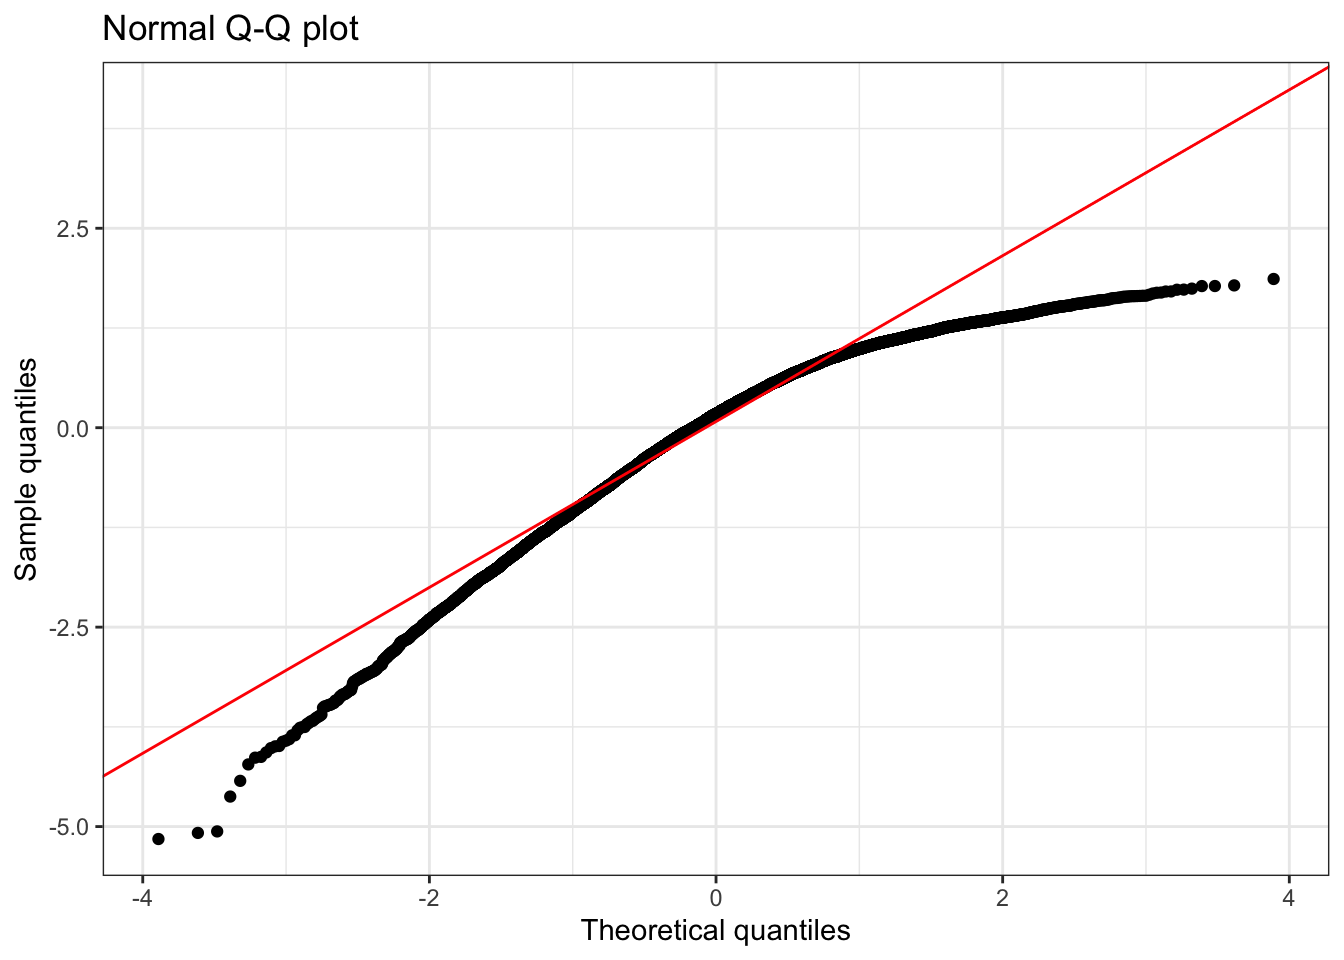
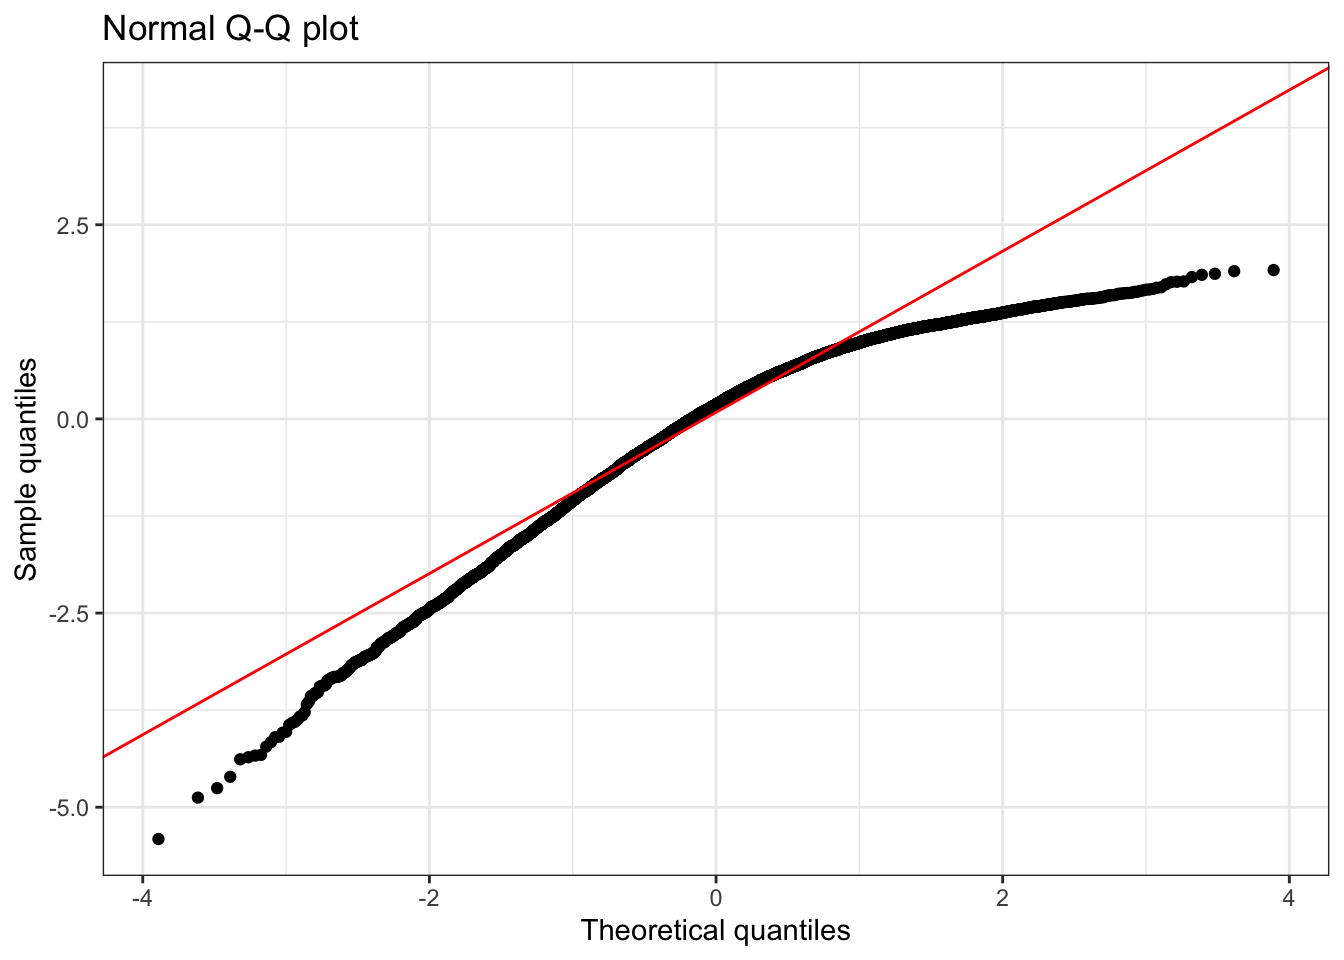
post update

diff --git a/docs/02_Data_Visualization.html b/docs/02_Data_Visualization.html
@@ -653,19 +653,19 @@ window.Quarto = {
 <p>Scatter plots and line plots are useful for visualizing relationships between two continuous variables, in the following session we will use a case study to illustrate other types of figures.</p>
 <div class="cell">
 <div class="sourceCode cell-code" id="cb1"><pre class="sourceCode r code-with-copy"><code class="sourceCode r"><span id="cb1-1"><a href="#cb1-1" aria-hidden="true" tabindex="-1"></a><span class="co"># load packages and dataset</span></span>
-<span id="cb1-2"><a href="#cb1-2" aria-hidden="true" tabindex="-1"></a>pkgs <span class="ot">&lt;-</span> <span class="fu">c</span>(<span class="st">"AER"</span>, <span class="st">"tidyverse"</span>, <span class="st">"moments"</span>, <span class="st">"data.table"</span>, <span class="st">"ggsci"</span>)</span>
+<span id="cb1-2"><a href="#cb1-2" aria-hidden="true" tabindex="-1"></a>pkgs <span class="ot">&lt;-</span> <span class="fu">c</span>(<span class="st">"tidyverse"</span>, <span class="st">"moments"</span>, <span class="st">"data.table"</span>, <span class="st">"ggsci"</span>)</span>
 <span id="cb1-3"><a href="#cb1-3" aria-hidden="true" tabindex="-1"></a>missing <span class="ot">&lt;-</span> <span class="fu">setdiff</span>(pkgs, <span class="fu">rownames</span>(<span class="fu">installed.packages</span>()))</span>
 <span id="cb1-4"><a href="#cb1-4" aria-hidden="true" tabindex="-1"></a><span class="cf">if</span> (<span class="fu">length</span>(missing) <span class="sc">&gt;</span> <span class="dv">0</span>) <span class="fu">install.packages</span>(missing)</span>
 <span id="cb1-5"><a href="#cb1-5" aria-hidden="true" tabindex="-1"></a><span class="fu">invisible</span>(<span class="fu">lapply</span>(pkgs, <span class="cf">function</span>(pkg) <span class="fu">suppressPackageStartupMessages</span>(<span class="fu">library</span>(pkg, <span class="at">character.only =</span> <span class="cn">TRUE</span>))))</span>
-<span id="cb1-6"><a href="#cb1-6" aria-hidden="true" tabindex="-1"></a><span class="fu">data</span>(CASchools)</span>
-<span id="cb1-7"><a href="#cb1-7" aria-hidden="true" tabindex="-1"></a>cas <span class="ot">&lt;-</span> CASchools</span></code><button title="Copy to Clipboard" class="code-copy-button"><i class="bi"></i></button></pre></div>
+<span id="cb1-6"><a href="#cb1-6" aria-hidden="true" tabindex="-1"></a>f_name <span class="ot">&lt;-</span> <span class="st">"https://raw.githubusercontent.com/my1396/FIN5005-Fall2025/refs/heads/main/data/CASchools_test_score.csv"</span></span>
+<span id="cb1-7"><a href="#cb1-7" aria-hidden="true" tabindex="-1"></a>cas <span class="ot">&lt;-</span> <span class="fu">read_csv</span>(f_name)</span></code><button title="Copy to Clipboard" class="code-copy-button"><i class="bi"></i></button></pre></div>
 </div>
 <p>Overview of the dataset:</p>
 <div class="cell">
 <div class="sourceCode cell-code" id="cb2"><pre class="sourceCode r code-with-copy"><code class="sourceCode r"><span id="cb2-1"><a href="#cb2-1" aria-hidden="true" tabindex="-1"></a>cas <span class="sc">%&gt;%</span> <span class="fu">as.data.table</span>()</span></code><button title="Copy to Clipboard" class="code-copy-button"><i class="bi"></i></button></pre></div>
 <div class="cell-output cell-output-stdout">
 <pre><code>     district                          school      county grades students
-       &lt;char&gt;                          &lt;char&gt;      &lt;fctr&gt; &lt;fctr&gt;    &lt;num&gt;
+        &lt;num&gt;                          &lt;char&gt;      &lt;char&gt; &lt;char&gt;    &lt;num&gt;
   1:    75119              Sunol Glen Unified     Alameda  KK-08      195
   2:    61499            Manzanita Elementary       Butte  KK-08      240
   3:    61549     Thermalito Union Elementary       Butte  KK-08     1550
@@ -789,14 +789,13 @@ window.Quarto = {
 <div class="cell">
 <div class="sourceCode cell-code" id="cb4"><pre class="sourceCode r code-with-copy"><code class="sourceCode r"><span id="cb4-1"><a href="#cb4-1" aria-hidden="true" tabindex="-1"></a><span class="fu">summary</span>(cas)</span></code><button title="Copy to Clipboard" class="code-copy-button"><i class="bi"></i></button></pre></div>
 <div class="cell-output cell-output-stdout">
-<pre><code>   district            school                  county      grades   
- Length:420         Length:420         Sonoma     : 29   KK-06: 61  
- Class :character   Class :character   Kern       : 27   KK-08:359  
- Mode  :character   Mode  :character   Los Angeles: 27              
-                                       Tulare     : 24              
-                                       San Diego  : 21              
-                                       Santa Clara: 20              
-                                       (Other)    :272              
+<pre><code>    district        school             county             grades         
+ Min.   :61382   Length:420         Length:420         Length:420        
+ 1st Qu.:64308   Class :character   Class :character   Class :character  
+ Median :67760   Mode  :character   Mode  :character   Mode  :character  
+ Mean   :67473                                                           
+ 3rd Qu.:70419                                                           
+ Max.   :75440                                                           
     students          teachers          calworks          lunch       
  Min.   :   81.0   Min.   :   4.85   Min.   : 0.000   Min.   :  0.00  
  1st Qu.:  379.0   1st Qu.:  19.66   1st Qu.: 4.395   1st Qu.: 23.28  
@@ -804,7 +803,6 @@ window.Quarto = {
  Mean   : 2628.8   Mean   : 129.07   Mean   :13.246   Mean   : 44.71  
  3rd Qu.: 3008.0   3rd Qu.: 146.35   3rd Qu.:18.981   3rd Qu.: 66.86  
  Max.   :27176.0   Max.   :1429.00   Max.   :78.994   Max.   :100.00  
-                                                                      
     computer       expenditure       income          english      
  Min.   :   0.0   Min.   :3926   Min.   : 5.335   Min.   : 0.000  
  1st Qu.:  46.0   1st Qu.:4906   1st Qu.:10.639   1st Qu.: 1.941  
@@ -812,15 +810,13 @@ window.Quarto = {
  Mean   : 303.4   Mean   :5312   Mean   :15.317   Mean   :15.768  
  3rd Qu.: 375.2   3rd Qu.:5601   3rd Qu.:17.629   3rd Qu.:22.970  
  Max.   :3324.0   Max.   :7712   Max.   :55.328   Max.   :85.540  
-                                                                  
       read            math      
  Min.   :604.5   Min.   :605.4  
  1st Qu.:640.4   1st Qu.:639.4  
  Median :655.8   Median :652.4  
  Mean   :655.0   Mean   :653.3  
  3rd Qu.:668.7   3rd Qu.:665.8  
- Max.   :704.0   Max.   :709.5  
-                                </code></pre>
+ Max.   :704.0   Max.   :709.5  </code></pre>
 </div>
 </div>
 <p>Q: To what extent does expenditure per student vary?</p>
@@ -878,7 +874,7 @@ window.Quarto = {
 <div class="cell-output cell-output-stdout">
 <pre><code># A tibble: 2 × 8
   grades.grades     N     Min. `1st Qu.`   Median     Mean `3rd Qu.`     Max.
-  &lt;fct&gt;         &lt;int&gt;    &lt;dbl&gt;     &lt;dbl&gt;    &lt;dbl&gt;    &lt;dbl&gt;     &lt;dbl&gt;    &lt;dbl&gt;
+  &lt;chr&gt;         &lt;int&gt;    &lt;dbl&gt;     &lt;dbl&gt;    &lt;dbl&gt;    &lt;dbl&gt;     &lt;dbl&gt;    &lt;dbl&gt;
 1 KK-06            61 4715.446  5092.917 5399.383 5577.493  5990.794 7614.379
 2 KK-08           359 3926.070  4881.139 5195.919 5267.365  5539.380 7711.507</code></pre>
 </div>
@@ -1022,8 +1018,8 @@ window.Quarto = {
 <p>Summary statistics:</p>
 <div class="cell">
 <div class="cell-output cell-output-stdout">
-<pre><code>      n   min mean median  max sd skewness kurtosis
-1 10000 -1.84    0  -0.18 4.63  1     0.86     3.51</code></pre>
+<pre><code>      n   min mean median  max   sd skewness kurtosis
+1 10000 -1.92 0.01  -0.18 4.52 0.99     0.87     3.52</code></pre>
 </div>
 </div>
 <p>💡 Note that for a positive skewed distribution, <strong>the median is larger than the mean</strong> because the long right tail pulls the mean above the median.</p>
@@ -1053,7 +1049,7 @@ window.Quarto = {
 <div class="cell">
 <div class="cell-output cell-output-stdout">
 <pre><code>      n   min  mean median  max   sd skewness kurtosis
-1 10000 -5.16 -0.01   0.17 1.86 1.01    -0.88     3.64</code></pre>
+1 10000 -5.41 -0.01   0.18 1.92 1.01     -0.9     3.62</code></pre>
 </div>
 </div>
 <p>💡 Note that for a negatively skewed distribution, <strong>the median is smaller than the mean</strong> because the long left tail pulls the mean above the median.</p>
@@ -1085,8 +1081,8 @@ window.Quarto = {
 <p>Summary statistics:</p>
 <div class="cell">
 <div class="cell-output cell-output-stdout">
-<pre><code>     n   min mean median  max   sd skewness kurtosis
-1 1000 -9.86    0  -0.01 7.46 1.54    -0.04     6.95</code></pre>
+<pre><code>     n    min mean median  max   sd skewness kurtosis
+1 1000 -14.92    0   0.01 8.05 1.65    -1.23    16.18</code></pre>
 </div>
 </div>
 </section>
@@ -1114,7 +1110,7 @@ window.Quarto = {
 <div class="cell">
 <div class="cell-output cell-output-stdout">
 <pre><code>     n   min  mean median  max   sd skewness kurtosis
-1 1000 -1.13 -0.01  -0.03 1.23 0.58     0.05     1.86</code></pre>
+1 1000 -1.19 -0.01  -0.02 1.21 0.59        0     1.86</code></pre>
 </div>
 </div>
 
